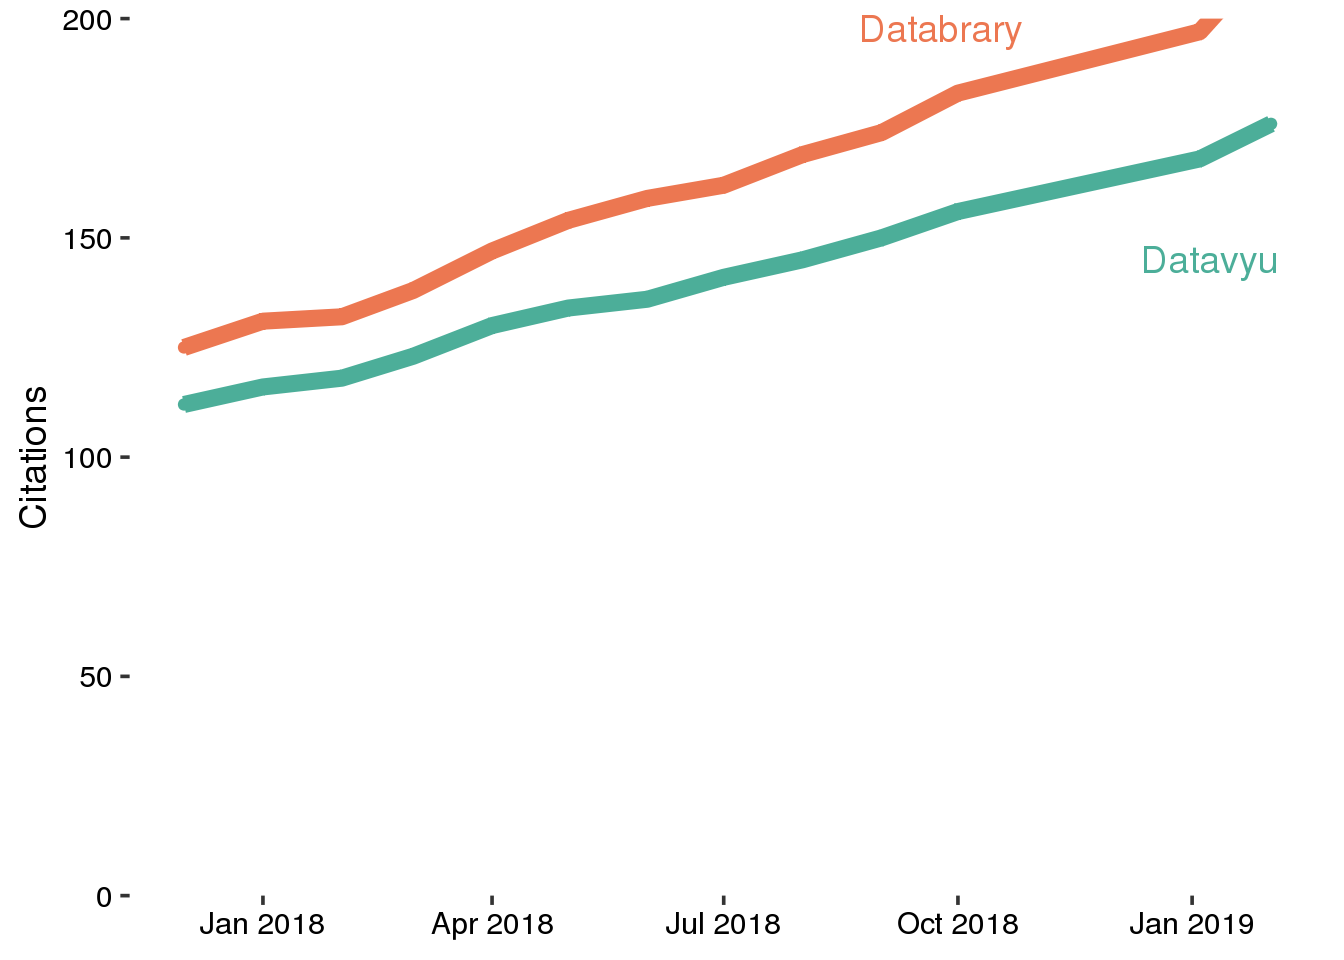
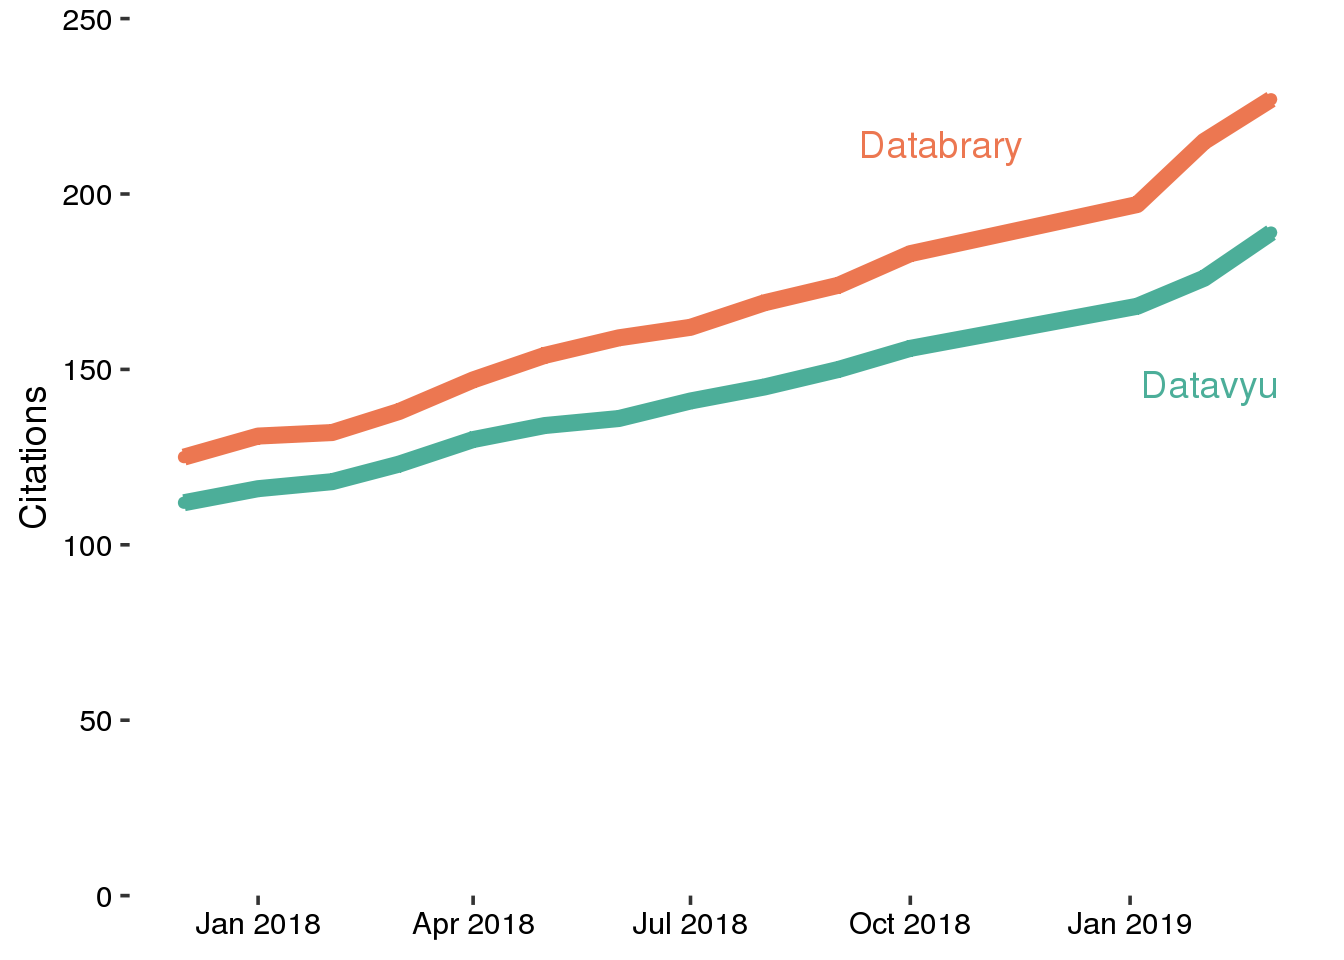
Update with monthly user and citation data

diff --git a/databrary-user-growth.html b/databrary-user-growth.html
@@ -301,7 +301,7 @@ div.tocify {
 
 <h1 class="title toc-ignore">databrary-user-growth</h1>
 <h4 class="author"><em>Andrea R. Seisler</em></h4>
-<h4 class="date"><em>2019-02-01 09:16:12</em></h4>
+<h4 class="date"><em>2019-03-01 09:23:58</em></h4>
 
 </div>
 
@@ -382,8 +382,8 @@ p &lt;-
   theme(axis.title.x=element_blank()) +
   theme(legend.position=&quot;none&quot;, axis.text = element_text(size = rel(0.8), colour = &quot;black&quot;)) +    #Axis text size and color
   theme(axis.line = element_blank()) +
-  scale_y_continuous(breaks = seq(0, 900, 100), expand = c(0,0)) +
-  coord_cartesian(ylim = c(0, 900))
+  scale_y_continuous(breaks = seq(0, 1000, 100), expand = c(0,0)) +
+  coord_cartesian(ylim = c(0, 1000))
   
   
 ggdraw(p) + 
@@ -412,18 +412,19 @@ p2 &lt;-
   theme(axis.title.x=element_blank()) +
   theme(legend.position=&quot;none&quot;, axis.text = element_text(size = rel(0.8), colour = &quot;black&quot;)) +    #Axis text size and color
   theme(axis.line = element_blank()) +
-  scale_y_continuous(breaks = seq(0, 200, 50), expand = c(0,0)) +
-  coord_cartesian(ylim = c(0, 200))
+  scale_y_continuous(breaks = seq(0, 250, 50), expand = c(0,0)) +
+  coord_cartesian(ylim = c(0, 250))
   
   
 ggdraw(p2) + 
-  draw_label(&quot;Datavyu&quot;, colour = &quot;#4CAE99&quot;, .9, .73) +
-  draw_label(&quot;Databrary&quot;, colour = &quot;#ec7751&quot;, .7, .97)</code></pre>
+  draw_label(&quot;Datavyu&quot;, colour = &quot;#4CAE99&quot;, .9, .6) +
+  draw_label(&quot;Databrary&quot;, colour = &quot;#ec7751&quot;, .7, .85)</code></pre>
 <p><img src="databrary-user-growth_files/figure-html/p-citation-growth-plot-1.png" width="672" /></p>
 </div>
 <div id="plot-of-yearly-citation-growth" class="section level2">
 <h2>Plot of Yearly Citation Growth</h2>
 <p>Here we plot all Databrary and Datavyu Citations vs. date. I used <a href="https://www.hexcolortool.com" class="uri">https://www.hexcolortool.com</a> to saturate the Databrary colors (“#fadbc7”, “#b2ddd4”) so they are darker on the graph.</p>
+<p><strong>This code needs to be updated for a bar graph with each bar representing a year</strong></p>
 <pre class="r"><code># Plot for all Databrary and Datavyu Citations vs. date
 
 # Reshape df2

diff --git a/README.md b/README.md
@@ -3,4 +3,11 @@ Code to produce and plot analytics about Databrary
 
 - `visits-downloads.Rmd` produces plots and tables from a March 2018 analysis of unique visits and downloads of the site. `visit-downloads.md` shows the output.
 - `databrary-user-growth.Rmd` produces a plot of the growth in authorized users and institutions.
-- To see an HTML format summary report, visit <https://gilmore-lab.github.io/databrary-analytics/databrary_weekly.html>
+- `databrary-analytics`...
+
+# Data acquired monthly
+- These numbers are from the Databrary Actitity site https://nyu.databrary.org/api/activity
+
+- "Databrary" and "Datavyu" (with quotes) are used to reduce bad hits in [Google Scholar](https://scholar.google.com)     - choose the 'anytime' option for Citations Monthly
+    - choose 'Since 2019' option for Citations Yearly
+    - the boxes for *Include Patents* and *Include Citations* remain checked
